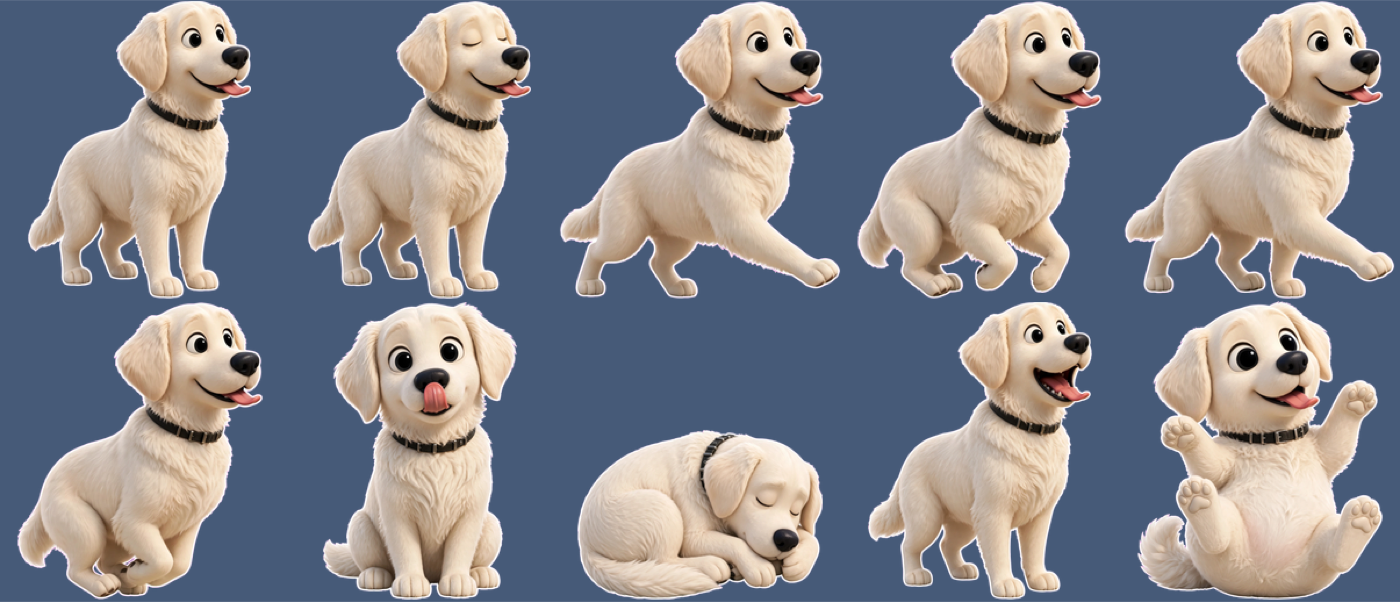
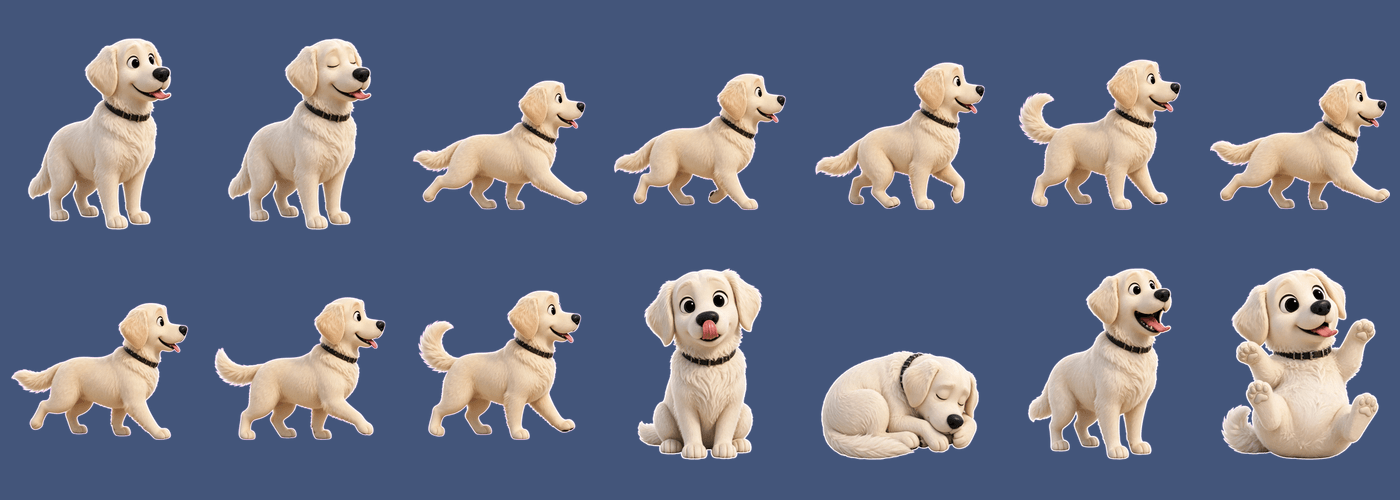
Site: pick Pakkun, Mochi or Kuma in the desk demo; mixed parade strip; fresh art
The hero desk demo gets a pet picker (remembered locally). Every pose, the
drawn walk, the bubbles, him/her and the menubar icon follow it, and Mochi
says Mrrp~. The bottom strip interleaves all three pets. The pose sheet is
regenerated with the 8-frame drawn walk (974 KB to 169 KB), and a new
pack-trio image serves as the README pack shot and og:image.

diff --git a/docs/index.html b/docs/index.html
@@ -7,7 +7,10 @@
 <meta name="description" content="One photo of your dog or cat becomes a 3D companion on your Mac with PixyPup. It walks, does tricks, sniffs your failing tests. Built with Meta SAM 3.1, Muse Image, Muse Spark and Voice Transcribe.">
 <meta property="og:title" content="PixyPup · your pet, on your Mac">
 <meta property="og:description" content="One photo in. One very good pup out. He walks your desktop, does tricks, and sniffs out your failing tests.">
-<meta property="og:image" content="https://bbekshr.github.io/pixypup/pack-sheet.png">
+<meta property="og:image" content="https://bbekshr.github.io/pixypup/pack-trio.png">
+<meta property="og:type" content="website">
+<meta name="twitter:card" content="summary_large_image">
+<meta name="twitter:image" content="https://bbekshr.github.io/pixypup/pack-trio.png">
 <link rel="icon" href="img/pakkun/idle_0.png">
 <link rel="preconnect" href="https://fonts.googleapis.com">
 <link rel="preconnect" href="https://fonts.gstatic.com" crossorigin>
@@ -107,7 +110,10 @@ nav ul a:hover { opacity: 1; }
 .controls { display: flex; gap: 10px; justify-content: center; flex-wrap: wrap; margin-top: 20px; }
 .chip { border: 0; background: #fff; padding: 10px 18px; border-radius: 999px; font: 800 14px "Nunito"; color: var(--ink); cursor: pointer; box-shadow: var(--shadow); transition: transform .25s var(--pop), background .2s; }
 .chip:hover { transform: translateY(-2px); background: #FFF1E6; }
-.chip.on { background: var(--honey); }
+.chip.on, .chip[aria-pressed="true"] { background: var(--honey); }
+.chip.pick { display: inline-flex; align-items: center; gap: 8px; padding: 6px 16px 6px 8px; }
+.chip.pick img { width: 28px; height: 28px; border-radius: 50%; background: #FFF1E6; object-fit: cover; object-position: 75% 20%; }
+.chip.pick:focus-visible, .chip:focus-visible { outline: 3px solid var(--blush-deep); outline-offset: 2px; }
 @media (max-width: 640px) { .desk { height: 380px; } .pet { width: 116px; height: 125px; } .bubble { bottom: 132px; } .dock-badge { display: none; } .term { width: 86%; left: 7%; } .desk-hint { display: none; } }
 
 /* marquee of poses */
@@ -242,7 +248,7 @@ footer .sleepy { width: 130px; margin: 0 auto 16px; }
   <p class="small-link"><a href="https://github.com/BbekShr/pixypup/releases">all releases</a></p>
 
   <div class="desk" id="desk" aria-label="Interactive demo: Pakkun walking on a pretend desktop">
-    <div class="menubar"><span>🐾</span><span>Finder</span><span style="opacity:.6">File</span><span style="opacity:.6">Edit</span><span class="spacer"></span><img src="img/pakkun/idle_0.png" alt=""><span id="clock">9:41</span></div>
+    <div class="menubar"><span>🐾</span><span>Finder</span><span style="opacity:.6">File</span><span style="opacity:.6">Edit</span><span class="spacer"></span><img id="menuPet" src="img/pakkun/idle_0.png" alt=""><span id="clock">9:41</span></div>
     <div class="term" id="term">
       <div class="bar"><i></i><i></i><i></i></div>
       <pre id="termText"><span class="dim">~/app $</span> npm test</pre>
@@ -253,7 +259,12 @@ footer .sleepy { width: 130px; margin: 0 auto 16px; }
       <div class="bubble" id="bubble">Woof!</div>
       <img id="petImg" src="img/pakkun/idle_0.png" alt="Pakkun, a cream golden retriever pup">
     </div>
-    <div class="desk-hint">psst… click him 🐾</div>
+    <div class="desk-hint">psst… click <span id="himher">him</span> 🐾</div>
+  </div>
+  <div class="controls" id="picker" role="group" aria-label="Choose a pet">
+    <button class="chip pick" data-pet="0" aria-pressed="true"><img src="img/pakkun/idle_0.png" alt="">Pakkun</button>
+    <button class="chip pick" data-pet="1" aria-pressed="false"><img src="img/mochi/idle_0.png" alt="">Mochi</button>
+    <button class="chip pick" data-pet="2" aria-pressed="false"><img src="img/kuma/idle_0.png" alt="">Kuma</button>
   </div>
   <div class="controls" role="group" aria-label="Try a reaction">
     <button class="chip" data-act="fail">🧪 Break a test</button>
@@ -416,7 +427,7 @@ footer .sleepy { width: 130px; margin: 0 auto 16px; }
       <div class="mini model reveal"><b>Muse Wonder</b><p>Watches the drawn walk cycles and picks the most natural one, so he trots instead of shuffling.</p><p style="margin-top:10px"><code>muse-wonder-1.0</code></p></div>
       <div class="mini model reveal"><b>Voice Transcribe</b><p>Turns "Pakkun, sit" into a trick, only while you hold ⌥ Space.</p><p style="margin-top:10px"><code>muse-voice-transcribe-1.0</code></p></div>
     </div>
-    <img class="shot reveal" style="margin-top:48px" src="pack-sheet.png" alt="Ten Pakkun poses generated from one photo: standing, blinking, walking, sitting, sleeping, barking, rolling" loading="lazy">
+    <img class="shot reveal" style="margin-top:48px" src="pack-sheet.png" alt="Fourteen Pakkun poses generated from one photo: standing, blinking, an 8-frame walk, sitting, sleeping, barking, rolling" loading="lazy">
   </div>
 </section>
 
@@ -446,11 +457,17 @@ footer .sleepy { width: 130px; margin: 0 auto 16px; }
 document.documentElement.classList.add("js");
 (() => {
   const P = 'img/pakkun/';
-  const PETS = [{ d: P, poses: ['sit', 'bark', 'roll'] }, { d: 'img/mochi/', poses: ['sit', 'bark'] }, { d: 'img/kuma/', poses: ['sit', 'bark'] }];
+  // every pet's manifest has all of these poses, so tricks need no fallback
+  const POSES = ['sit', 'bark', 'roll'];
+  const PETS = [
+    { n: 'Pakkun', d: P, poses: POSES, as: 'a cream golden retriever pup', pr: 'him', say: 'Woof woof!', hi: 'Woof!' },
+    { n: 'Mochi', d: 'img/mochi/', poses: POSES, as: 'a cat', pr: 'her', say: 'Mrrp~ mew!', hi: 'Mew!' },
+    { n: 'Kuma', d: 'img/kuma/', poses: POSES, as: 'a red shiba inu pup', pr: 'him', say: 'Woof woof!', hi: 'Woof!' },
+  ];
+  let cur = PETS[0];
   const F = { idle: 'idle_0', blink: 'idle_blink', sit: 'sit', bark: 'bark', roll: 'roll', sleep: 'sleep', walk: [0, 1, 2, 3, 4, 5, 6, 7].map(i => 'side_' + i) };
-  PETS.slice(1).forEach(q => ['sit', 'bark', ...F.walk].forEach(n => { new Image().src = q.d + n + '.png'; }));
   const all = ['idle_0', 'idle_blink', 'sit', 'bark', 'roll', 'sleep', ...F.walk];
-  all.forEach(n => { new Image().src = P + n + '.png'; });
+  PETS.forEach(q => all.forEach(n => { new Image().src = q.d + n + '.png'; }));
   const reduce = matchMedia('(prefers-reduced-motion: reduce)').matches;
 
   // the app's own walk maths (js/puppet.js, built from src/overlay/stride.ts + motion.ts): drawn frames, one per measured stride of distance walked
@@ -474,16 +491,18 @@ document.documentElement.classList.add("js");
 
   // pose marquee
   const track = document.getElementById('track');
-  const strip = ['idle_0', 'side_1', 'sit', 'bark', 'side_3', 'roll', 'sleep', 'idle_blink', 'side_2'];
-  [...strip, ...strip].forEach(n => { const i = new Image(); i.src = P + n + '.png'; i.alt = ''; track.append(i); });
+  // neighbours are always different pets; stepping the pose by 2 (mod 9) shuffles all nine poses deterministically
+  const strip = ['idle_0', 'side_1', 'sit', 'bark', 'side_3', 'roll', 'sleep', 'idle_blink', 'side_5'];
+  const parade = Array.from({ length: 27 }, (_, k) => PETS[k % 3].d + strip[(Math.floor(k / 3) * 2 + (k % 3) * 3) % 9] + '.png');
+  [...parade, ...parade].forEach(src => { const i = new Image(); i.src = src; i.alt = ''; track.append(i); });
 
   // the pet
   const desk = document.getElementById('desk'), pet = document.getElementById('pet'), img = document.getElementById('petImg'), bubble = document.getElementById('bubble');
   const term = document.getElementById('term'), termText = document.getElementById('termText'), badge = document.getElementById('badge');
   let x = 60, dir = 1, target = 400, mode = 'walk', until = 0, frame = 0, lastStep = 0, walked = 0, speed = 70, trick = 'sit', bubbleTimer;
   const TRICKS = { sit: 'bark', bark: 'roll', roll: 'sit' };
-  const LINES = { sit: 'Sitting pretty!', bark: 'Woof woof!', roll: 'Belly rubs?' };
-  const set = n => { const s = n.includes('/') ? n : P + n + '.png'; if (!img.src.endsWith(s)) img.src = s; };
+  const LINES = () => ({ sit: 'Sitting pretty!', bark: cur.say, roll: 'Belly rubs?' });
+  const set = n => { const s = n.includes('/') ? n : cur.d + n + '.png'; if (!img.src.endsWith(s)) img.src = s; };
   const say = (t, ms = 1800) => { bubble.textContent = t; bubble.classList.add('show'); clearTimeout(bubbleTimer); bubbleTimer = setTimeout(() => bubble.classList.remove('show'), ms); };
   const W = () => desk.clientWidth - pet.clientWidth;
   const pick = () => { target = 20 + Math.random() * (W() - 40); };
@@ -503,7 +522,7 @@ document.documentElement.classList.add("js");
         dir = Math.sign(d);
         const mv = Math.min(Math.abs(d), speed * dt / 1000);
         x += dir * mv; walked += mv;
-        if (rigs[P]) set(rigSrc(rigs[P], walked, pet.clientWidth, pet.clientHeight));
+        if (rigs[cur.d]) set(rigSrc(rigs[cur.d], walked, pet.clientWidth, pet.clientHeight));
         else if (now - lastStep > 125) { frame = (frame + 1) % 8; lastStep = now; set(F.walk[frame]); }
       }
     } else if (now > until) {
@@ -520,7 +539,7 @@ document.documentElement.classList.add("js");
 
   function doTrick() {
     pet.classList.remove('wiggle'); void pet.offsetWidth; pet.classList.add('wiggle');
-    hold(trick, 1700); say(LINES[trick]); hearts(2);
+    hold(trick, 1700); say(LINES()[trick]); hearts(2);
     trick = TRICKS[trick];
   }
   function hearts(n) {
@@ -572,8 +591,25 @@ document.documentElement.classList.add("js");
   const tickClock = () => { clock.textContent = new Date().toLocaleTimeString([], { hour: 'numeric', minute: '2-digit' }); };
   tickClock(); setInterval(tickClock, 30000);
 
+  // pet picker: remembered if storage works, the page is fine without it
+  const picks = [...document.querySelectorAll('[data-pet]')];
+  const setPet = (i, greet) => {
+    cur = PETS[i];
+    picks.forEach(b => b.setAttribute('aria-pressed', String(+b.dataset.pet === i)));
+    img.alt = cur.n + ', ' + cur.as; pet.setAttribute('aria-label', cur.n + '. Click for a trick');
+    document.getElementById('himher').textContent = cur.pr; bubble.textContent = cur.hi;
+    document.getElementById('menuPet').src = cur.d + 'idle_0.png';
+    desk.setAttribute('aria-label', 'Interactive demo: ' + cur.n + ' walking on a pretend desktop');
+    set(F.idle);
+    try { localStorage.setItem('pixypup-pet', i); } catch (e) { /* private mode: fine */ }
+    if (greet) say('Hi, I\'m ' + cur.n + '!', 2200);
+  };
+  picks.forEach(b => b.addEventListener('click', () => { mode = 'walk'; pet.onArrive = null; pick(); setPet(+b.dataset.pet, true); }));
+  let saved = 0; try { saved = +localStorage.getItem('pixypup-pet') || 0; } catch (e) { /* no storage */ }
+  if (saved > 0 && saved < PETS.length) setPet(saved);
+
   if (reduce) { set(F.sit); pet.style.transform = `translateX(${W() / 2}px)`; }
-  else { pick(); requestAnimationFrame(tick); setTimeout(() => say('Hi, I\'m Pakkun!', 2200), 900); }
+  else { pick(); requestAnimationFrame(tick); setTimeout(() => say('Hi, I\'m ' + cur.n + '!', 2200), 900); }
 
   // overload
   const btn = document.getElementById('overloadBtn');

diff --git a/README.md b/README.md
@@ -14,9 +14,11 @@
 
 ### [🌐 See PixyPup in action](https://bbekshr.github.io/pixypup/) · [⬇ Download](https://github.com/BbekShr/pixypup/releases/latest/download/PixyPup-0.1.0-arm64.dmg) · [🛠 Build it](#build)
 
-<img src="docs/pack-sheet.png" alt="Ten 3D poses of Pakkun, drawn from one photo: standing, blinking, walking, sitting, sleeping, barking, rolling" width="100%">
+<img src="docs/pack-sheet.png" alt="Fourteen 3D poses of Pakkun, drawn from one photo: standing, blinking, an 8-frame walk, sitting, sleeping, barking, rolling" width="100%">
 
-<sub>☝ All ten poses, drawn by Meta's models from <b>one</b> photo. No 3D artist was harmed.</sub>
+<sub>☝ All fourteen poses (including the 8-frame walk), drawn by Meta's models from <b>one</b> photo. No 3D artist was harmed.</sub>
+
+**Try it in 30 seconds:** open the [live site](https://bbekshr.github.io/pixypup/), pick Pakkun, Mochi or Kuma under the desk demo, then break a test and watch them sniff it out. No download, no key.
 
 </div>
 
@@ -50,9 +52,7 @@ Then the magic part: **give him a photo of _your_ pet**, and about a minute and 
 ## 🐾 Meet the pack
 
 <div align="center">
-<img src="assets/pets/Pakkun/sit.png" width="120" alt="Pakkun the golden retriever, sitting proudly">
-<img src="assets/pets/Mochi/sit.png" width="120" alt="Mochi the cat, sitting with perfect posture">
-<img src="assets/pets/Kuma/sit.png" width="120" alt="Kuma the red Shiba Inu, sitting and smiling">
+<img src="docs/pack-trio.png" width="560" alt="Pakkun the golden retriever, Mochi the cat and Kuma the red Shiba Inu, sitting side by side">
 <br><sub><b>Pakkun</b> (good boy) · <b>Mochi</b> (unbothered) · <b>Kuma</b> (full of opinions)</sub>
 </div>
 

diff --git a/.claude/ceo/memory/scorecard.md b/.claude/ceo/memory/scorecard.md
@@ -39,3 +39,4 @@ Level: **L1** (target L1) since 2026-10-31.
 | 2026-11-01 | F29 | #33 | landed-clean | no | 1 CONFIRMED (bake throw broke pack load) + species false positives + serial encode; all fixed; 2 CEO live findings (leg slivers, skating paws, far-leg fragments) fixed | no | fable plan, 4 sonnet editor runs, 1 haiku release run, 1 sonnet review |
 | 2026-11-01 | deep | (pending) | open | — | security diff: 2 CONFIRMED (redactor gaps, crisis Unicode) fixed; code review: 1 CONFIRMED (TimeoutError) + 5 PLAUSIBLE (3 fixed, Meet narrowing reverted, 2 accepted); RM: 1 CONFIRMED runtime (talk command held during turn) fixed, re-verify GO | no | 3 assess reads (1 sonnet security, 2 haiku Explore), 2 sonnet editor runs (worktrees), 1 sonnet security diff, 1 sonnet code review, 2 haiku release runs; CEO fixes inline |
 | 2026-11-01 | docs-latest | #37 | open | — | round 2 after #38/#39: drawn-walk site re-verified (frames advance with distance), 5 models, redaction copy; CEO: browser-verified site (0 console errors, blob walk frames, chat replies, no horizontal scroll at 375 px); lint-disable banner on the generated bundle justified and escalated | no | 1 sonnet editor run (3 follow-ups); CEO ran gates + browser check; release v0.1.0 published on approval |
+| 2026-11-01 | site-pet-picker | (pending) | open | — | CEO: browser-verified picker (Kuma/Mochi switch, Mochi walk-to-terminal on drawn frames, 'click her'), mixed strip, new pack-sheet/pack-trio viewed | no | 1 sonnet editor run; merge authorised by maintainer in chat |
